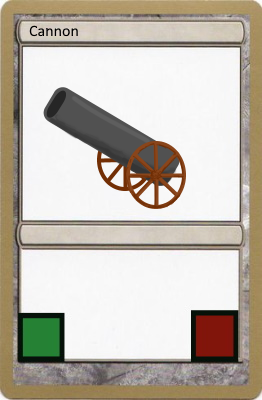
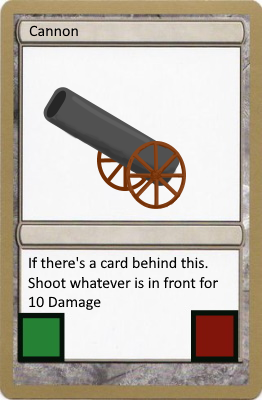
added canon to the game

Changed region(s): [[0.0916, 0.63, 0.8244, 0.78]]

diff --git a/Cards/Cannon.cs b/Cards/Cannon.cs
@@ -12,13 +12,59 @@ namespace PriateCardGame.Cards
 
         public override void AdditionalCardEffect(List<CardSpace> enemySpaces, List<CardSpace> playerSpaces)
         {
-
+            if (this.position.Y < 500)
+            {
+                if (this.spaceNumber >=4)
+                {
+                    if (enemySpaces[this.spaceNumber-4].card != null)
+                    {
+                        if (playerSpaces[this.spaceNumber-4].card !=null)
+                        {
+                            playerSpaces[this.spaceNumber - 4].card.Health -= 10;
+                            playerSpaces[this.spaceNumber - 4].card.damageTaken += 10;
+                        }
+                        else if (playerSpaces[this.spaceNumber].card!=null)
+                        {
+                            playerSpaces[this.spaceNumber].card.Health -= 10;
+                            playerSpaces[this.spaceNumber].card.damageTaken += 10;
+                        }
+                        else
+                        {
+                            GameWorld.enemyHealth -= 10;
+                        }
+                    }
+                }
+            }
+            else
+            {
+                if (this.spaceNumber<=3)
+                {
+                    if (playerSpaces[this.spaceNumber+4].card!=null)
+                    {
+                        if (enemySpaces[this.spaceNumber + 4].card != null)
+                        {
+                            enemySpaces[this.spaceNumber + 4].card.Health -= 10;
+                            enemySpaces[this.spaceNumber + 4].card.damageTaken += 10;
+                        }
+                        else if (enemySpaces[this.spaceNumber].card != null)
+                        {
+                            enemySpaces[this.spaceNumber].card.Health -= 10;
+                            enemySpaces[this.spaceNumber].card.damageTaken += 10;
+                        }
+                        else
+                        {
+                            GameWorld.enemyHealth -= 10;
+                        }
+                    }
+                }
+            }
         }
 
         public Cannon()
         {
-            this.Damage = 10;
-            this.Health = 15;
+            this.Name = "Cannon";
+            this.Damage = 0;
+            this.Health = 5;
         }
 
         public override void LoadContent(ContentManager contentManager)

diff --git a/GameWorld.cs b/GameWorld.cs
@@ -2,6 +2,7 @@
 using Microsoft.Xna.Framework.Graphics;
 using Microsoft.Xna.Framework.Input;
 using PriateCardGame.BuilderPattern;
+using PriateCardGame.Cards;
 using PriateCardGame.Database;
 using System;
 using System.Collections.Generic;
@@ -98,10 +99,10 @@ namespace PriateCardGame
                     enemySpaces.Add(new CardSpace(i));
                 }
 
-                //for (int i = 0; i < 8; i++)
-                //{
-                //    enemySpaces[i].setCard(new Captain());
-                //}
+                for (int i = 0; i < 8; i++)
+                {
+                    enemySpaces[i].setCard(new Captain());
+                }
 
                 var mapper = new CardMapper();
                 var provider = new SQLiteDatabaseProvider("Data Source=Cards.db;Version=3;new=true");
@@ -113,13 +114,13 @@ namespace PriateCardGame
 
                 if (repo.FindDeck().Count == 0)
                 {
-                    repo.AddCard("Swapper");
-                    repo.AddCard("Swapper");
-                    repo.AddCard("Swapper");
-                    repo.AddCard("Swapper");
-                    repo.AddCard("Swapper");
-                    repo.AddCard("Swapper");
-                    repo.AddCard("Swapper");
+                    //repo.AddCard("Swapper");
+                    //repo.AddCard("Swapper");
+                    //repo.AddCard("Swapper");
+                    //repo.AddCard("Swapper");
+                    //repo.AddCard("Swapper");
+                    //repo.AddCard("Swapper");
+                    repo.AddCard("Cannon");
                     repo.AddCard("Thief");
                     repo.AddCard("Cannibal");
                     repo.AddCard("Captain");
@@ -162,7 +163,7 @@ namespace PriateCardGame
                 AllOwnedCards = repo.FindAllCards();
                 repo.Close();
 
-                for (int i = 0; i < 4; i++)
+                for (int i = 0; i < 10; i++)
                 {
                     storageSpaces.Add(new StorageSpace());
                     storageSpaces[i].SetCard(i);

diff --git a/StorageSpace.cs b/StorageSpace.cs
@@ -48,13 +48,13 @@ namespace PriateCardGame
 
         public void SetCardPos(int i)
         {
-            if (i <= 3)
+            if (i <= 4)
             {
                 this.position = new Vector2(31+(200*i) , 37);
             }
-            else if (i >= 4)
+            else if (i >= 5)
             {
-                this.position = new Vector2(31 + (200 * i), 237);
+                this.position = new Vector2(31 + (200 * (i-5)), 320);
             }
 
             if (this.card != null)
@@ -79,6 +79,27 @@ namespace PriateCardGame
                     break;
                 case 3:
                     this.card = new Thief();
+                    break;
+                case 4:
+                    this.card = new Cannon();
+                    break;
+                case 5:
+                    this.card = new Cannon();
+                    break;
+                case 6:
+                    this.card = new Cannon();
+                    break;
+                case 7:
+                    this.card = new Cannon();
+                    break;
+                case 8:
+                    this.card = new Cannon();
+                    break;
+                case 9:
+                    this.card = new Cannon();
+                    break;
+                case 10:
+                    this.card = new Cannon();
                     break;
             }
         }
